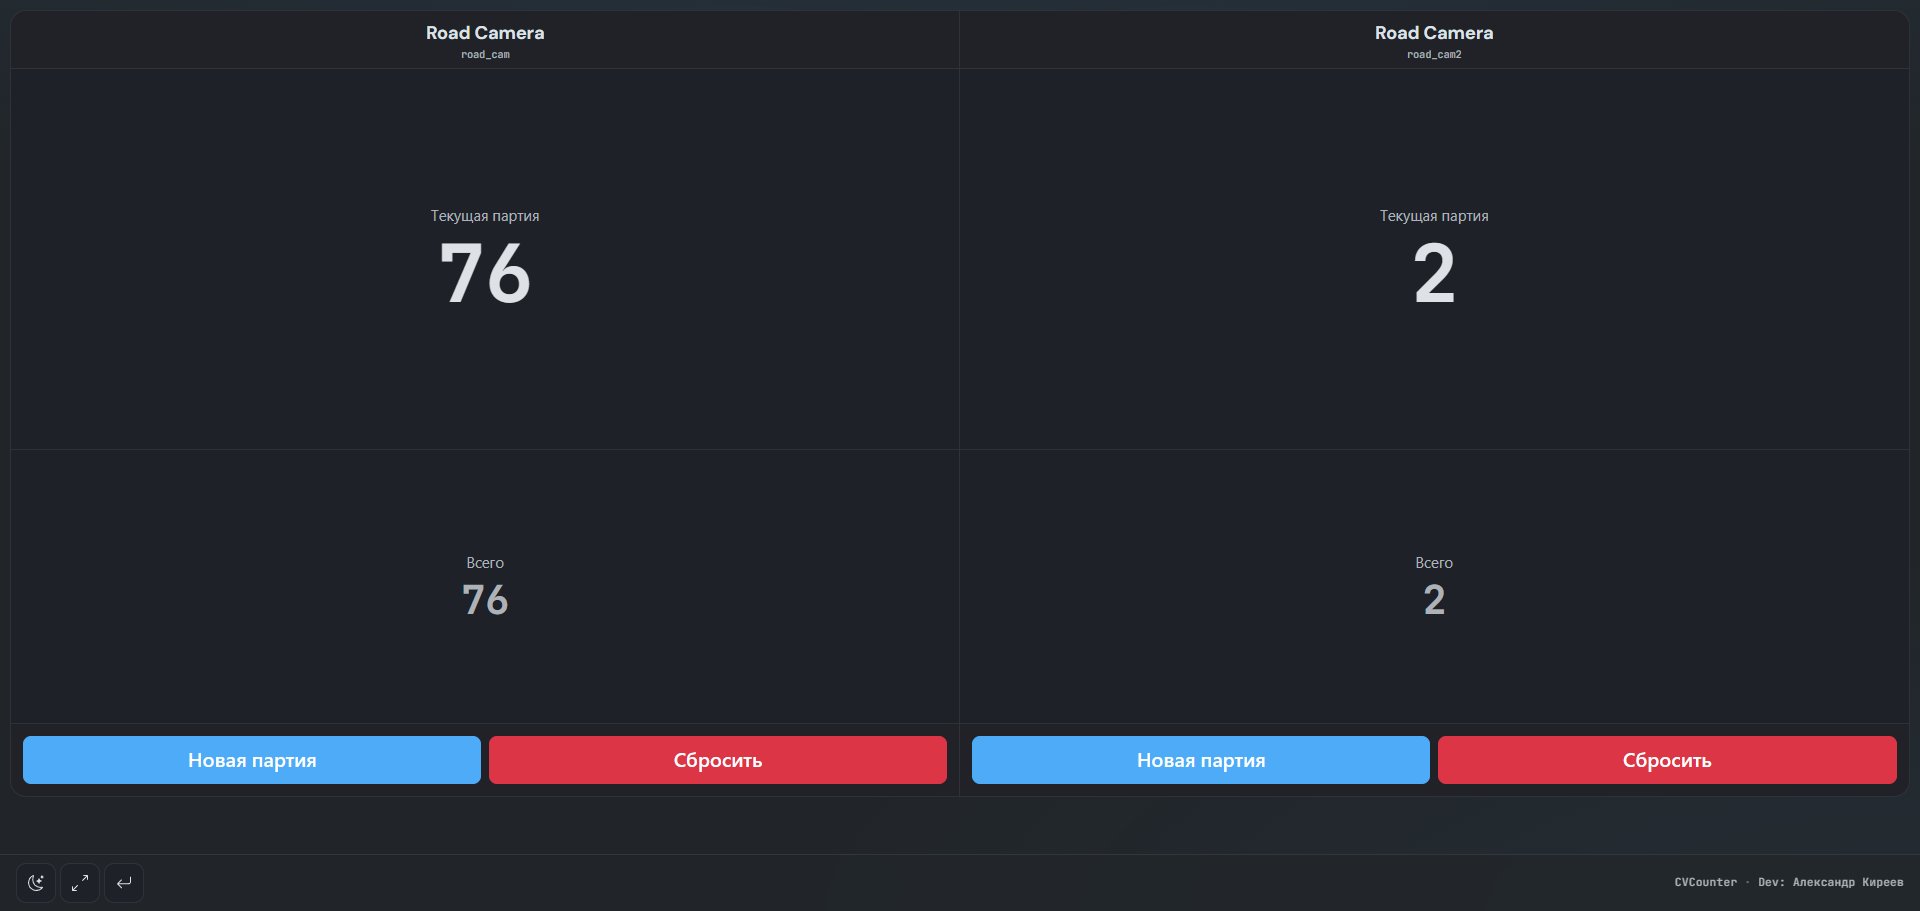
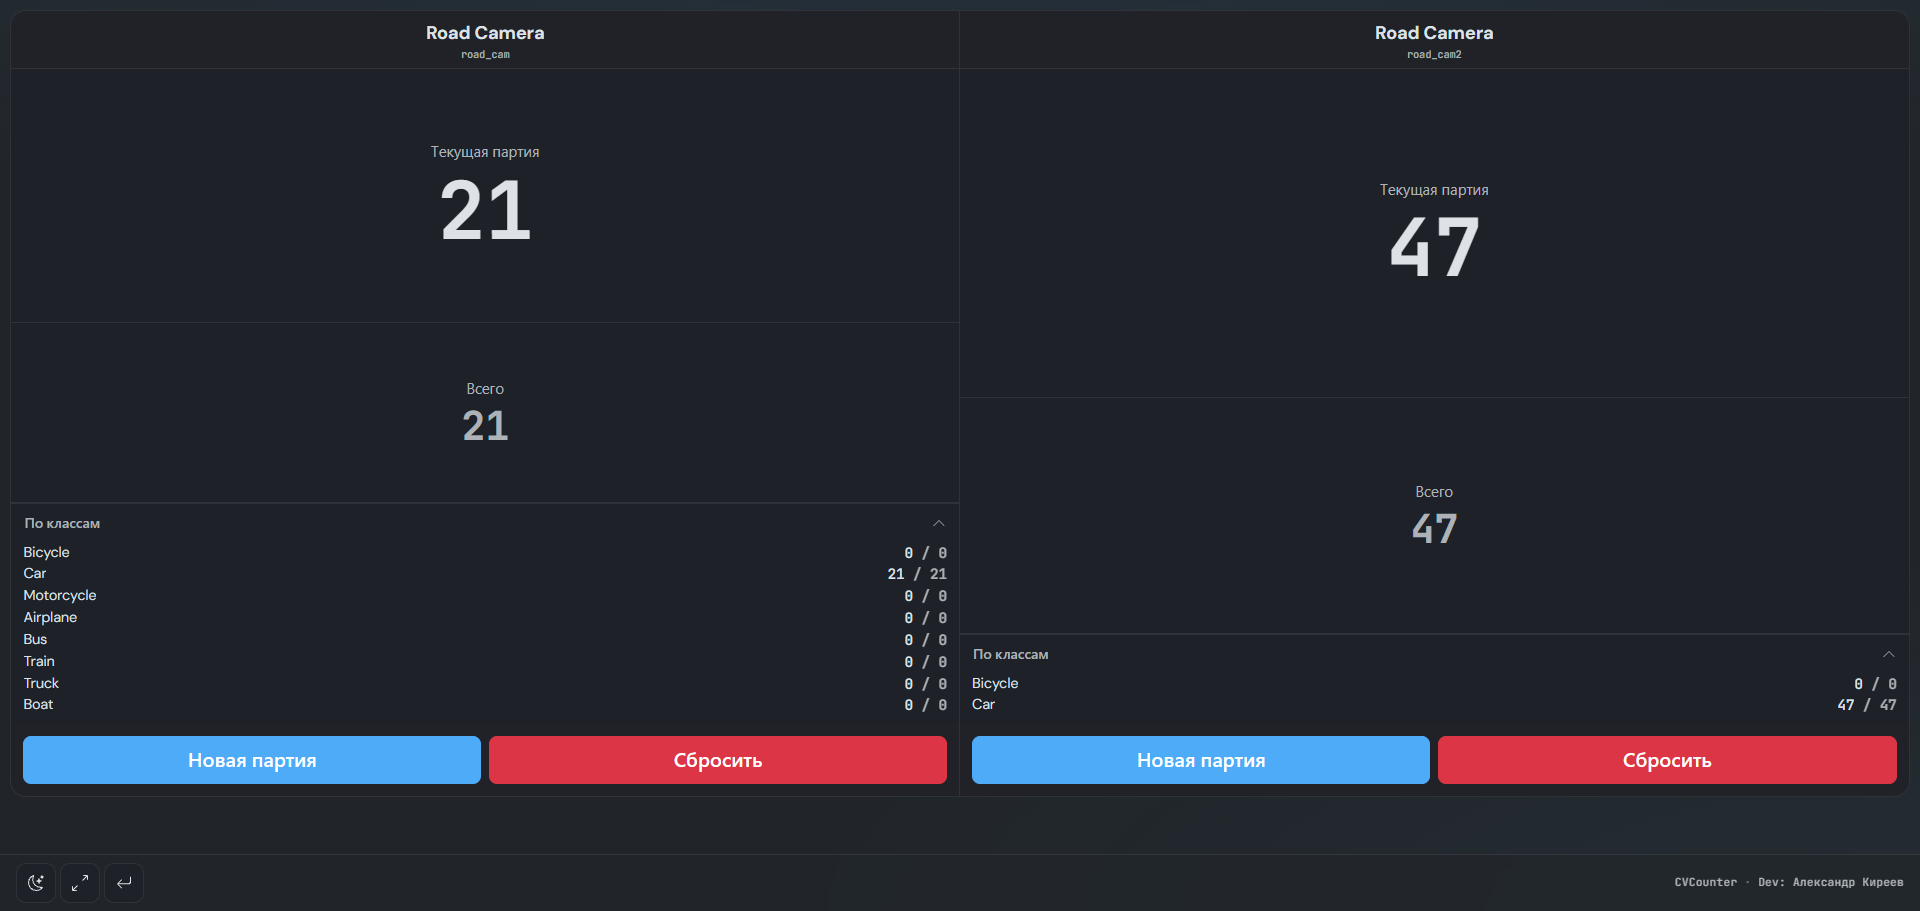
update: Updated the display of counting by class and the help page added: Added display of counting by classes on the text view of the counter

diff --git a/templates/partials/counter_sidebar_right.html b/templates/partials/counter_sidebar_right.html
@@ -20,40 +20,40 @@
                     </div>
                 </div>
             {% endif %}
-
-            {% set by_class = counts.get('by_class', []) %}
-            <div class="class-count-panel mt-2 pt-1 border-top border-dark">
-                <button class="btn btn-sm btn-link text-dark text-decoration-none p-0 w-100 text-start d-flex justify-content-between align-items-center class-count-toggle"
-                        type="button"
-                        data-bs-toggle="collapse"
-                        data-bs-target="#collapseByClass"
-                        aria-expanded="false"
-                        aria-controls="collapseByClass">
-                    <span>{{ trans('By class') }}</span>
-                    <svg xmlns="http://www.w3.org/2000/svg" width="16" height="16" fill="currentColor" class="bi bi-chevron-down class-count-chevron" viewBox="0 0 16 16" aria-hidden="true">
-                        <path fill-rule="evenodd" d="M1.646 4.646a.5.5 0 0 1 .708 0L8 10.293l5.646-5.647a.5.5 0 0 1 .708.708l-6 6a.5.5 0 0 1-.708 0l-6-6a.5.5 0 0 1 0-.708"/>
-                    </svg>
-                </button>
-                <div class="collapse" id="collapseByClass">
-                    <ul id="by_class_list" class="class-count-list list-unstyled mb-0 mt-1">
-                        {% for item in by_class %}
-                            <li class="class-count-item d-flex justify-content-between align-items-baseline gap-2">
-                                <span class="class-count-name text-truncate" title="{{ item.name }}">{{ item.name }}</span>
-                                <span class="class-count-values text-nowrap">
-                                    <span class="class-count-current">{{ item.current }}</span>
-                                    <span class="class-count-sep opacity-75">/</span>
-                                    <span class="class-count-total opacity-75">{{ item.total }}</span>
-                                </span>
-                            </li>
-                        {% endfor %}
-                    </ul>
-                    <div id="by_class_empty" class="class-count-empty small opacity-75 mt-1{{ '' if not by_class else ' d-none' }}">
-                        {{ trans('No class data') }}
-                    </div>
-                </div>
-            </div>
         </div>
     {% endif %}
+
+    {% set by_class = counts.get('by_class', []) %}
+    <div class="cv-panel class-count-panel my-2">
+        <button class="btn btn-sm btn-link text-decoration-none p-0 w-100 text-start d-flex justify-content-between align-items-center class-count-toggle"
+                type="button"
+                data-bs-toggle="collapse"
+                data-bs-target="#collapseByClass"
+                aria-expanded="false"
+                aria-controls="collapseByClass">
+            <span class="h5 mb-0">{{ trans('By class') }}</span>
+            <svg xmlns="http://www.w3.org/2000/svg" width="16" height="16" fill="currentColor" class="bi bi-chevron-down class-count-chevron" viewBox="0 0 16 16" aria-hidden="true">
+                <path fill-rule="evenodd" d="M1.646 4.646a.5.5 0 0 1 .708 0L8 10.293l5.646-5.647a.5.5 0 0 1 .708.708l-6 6a.5.5 0 0 1-.708 0l-6-6a.5.5 0 0 1 0-.708"/>
+            </svg>
+        </button>
+        <div class="collapse" id="collapseByClass">
+            <ul id="by_class_list" class="class-count-list list-unstyled mb-0 mt-2">
+                {% for item in by_class %}
+                    <li class="class-count-item d-flex justify-content-between align-items-baseline gap-2">
+                        <span class="class-count-name text-truncate" title="{{ item.name }}">{{ item.name }}</span>
+                        <span class="class-count-values text-nowrap">
+                            <span class="class-count-current">{{ item.current }}</span>
+                            <span class="class-count-sep opacity-75">/</span>
+                            <span class="class-count-total opacity-75">{{ item.total }}</span>
+                        </span>
+                    </li>
+                {% endfor %}
+            </ul>
+            <div id="by_class_empty" class="class-count-empty small text-muted mt-2{{ '' if not by_class else ' d-none' }}">
+                {{ trans('No class data') }}
+            </div>
+        </div>
+    </div>
 
     {% if form_config.get('defect_show', true) %}
         <!-- Defect keyboard -->

diff --git a/templates/pages/help.html b/templates/pages/help.html
@@ -209,26 +209,26 @@
                                     <div>{{ trans('Defective products') }}: <span>0</span></div>
                                     <div>{{ trans('Corr.') }}: <span>0</span></div>
                                 </div>
-                                <div class="class-count-panel mt-2 pt-1 border-top border-dark">
-                                    <div class="d-flex justify-content-between align-items-center small fw-semibold">
-                                        <span>{{ trans('By class') }}</span>
-                                        <svg xmlns="http://www.w3.org/2000/svg" width="14" height="14" fill="currentColor"
-                                             class="bi bi-chevron-down" viewBox="0 0 16 16" aria-hidden="true">
-                                            <path fill-rule="evenodd"
-                                                  d="M1.646 4.646a.5.5 0 0 1 .708 0L8 10.293l5.646-5.647a.5.5 0 0 1 .708.708l-6 6a.5.5 0 0 1-.708 0l-6-6a.5.5 0 0 1 0-.708"/>
-                                        </svg>
-                                    </div>
-                                    <ul class="class-count-list list-unstyled mb-0 mt-1 small">
-                                        <li class="d-flex justify-content-between gap-2">
-                                            <span>{{ trans('Help class example 1') }}</span>
-                                            <span class="text-nowrap"><span>30</span><span class="opacity-75"> / 200</span></span>
-                                        </li>
-                                        <li class="d-flex justify-content-between gap-2">
-                                            <span>{{ trans('Help class example 2') }}</span>
-                                            <span class="text-nowrap"><span>20</span><span class="opacity-75"> / 100</span></span>
-                                        </li>
-                                    </ul>
+                            </div>
+                            <div class="cv-panel class-count-panel my-2" style="max-width: 250px">
+                                <div class="d-flex justify-content-between align-items-center">
+                                    <span class="h5 mb-0">{{ trans('By class') }}</span>
+                                    <svg xmlns="http://www.w3.org/2000/svg" width="14" height="14" fill="currentColor"
+                                         class="bi bi-chevron-down" viewBox="0 0 16 16" aria-hidden="true">
+                                        <path fill-rule="evenodd"
+                                              d="M1.646 4.646a.5.5 0 0 1 .708 0L8 10.293l5.646-5.647a.5.5 0 0 1 .708.708l-6 6a.5.5 0 0 1-.708 0l-6-6a.5.5 0 0 1 0-.708"/>
+                                    </svg>
                                 </div>
+                                <ul class="class-count-list list-unstyled mb-0 mt-2 small">
+                                    <li class="d-flex justify-content-between gap-2">
+                                        <span>{{ trans('Help class example 1') }}</span>
+                                        <span class="text-nowrap"><span>30</span><span class="opacity-75"> / 200</span></span>
+                                    </li>
+                                    <li class="d-flex justify-content-between gap-2">
+                                        <span>{{ trans('Help class example 2') }}</span>
+                                        <span class="text-nowrap"><span>20</span><span class="opacity-75"> / 100</span></span>
+                                    </li>
+                                </ul>
                             </div>
                         </td>
                         <td>{{ trans('Help counter totals') }}</td>

diff --git a/static/assets/css/style.css b/static/assets/css/style.css
@@ -1013,30 +1013,30 @@ body.app-body--counter-dual .app-topbar {
     font-variant-numeric: tabular-nums;
 }
 
-.sidebar-counter-tile .class-count-toggle {
-    font-size: 0.95rem;
+.sidebar-right .class-count-panel .class-count-toggle {
     font-weight: 600;
+    color: inherit;
 }
 
-.sidebar-counter-tile .class-count-toggle[aria-expanded="true"] .class-count-chevron {
+.sidebar-right .class-count-panel .class-count-toggle[aria-expanded="true"] .class-count-chevron {
     transform: rotate(180deg);
 }
 
-.sidebar-counter-tile .class-count-chevron {
+.sidebar-right .class-count-panel .class-count-chevron {
     transition: transform 0.15s ease;
     flex-shrink: 0;
 }
 
-.sidebar-counter-tile .class-count-list {
+.sidebar-right .class-count-panel .class-count-list {
     font-size: 0.95rem;
     line-height: 1.35;
 }
 
-.sidebar-counter-tile .class-count-item + .class-count-item {
+.sidebar-right .class-count-panel .class-count-item + .class-count-item {
     margin-top: 0.2rem;
 }
 
-.sidebar-counter-tile .class-count-values {
+.sidebar-right .class-count-panel .class-count-values {
     font-family: var(--cv-font-mono);
     font-variant-numeric: tabular-nums;
     font-weight: 600;
